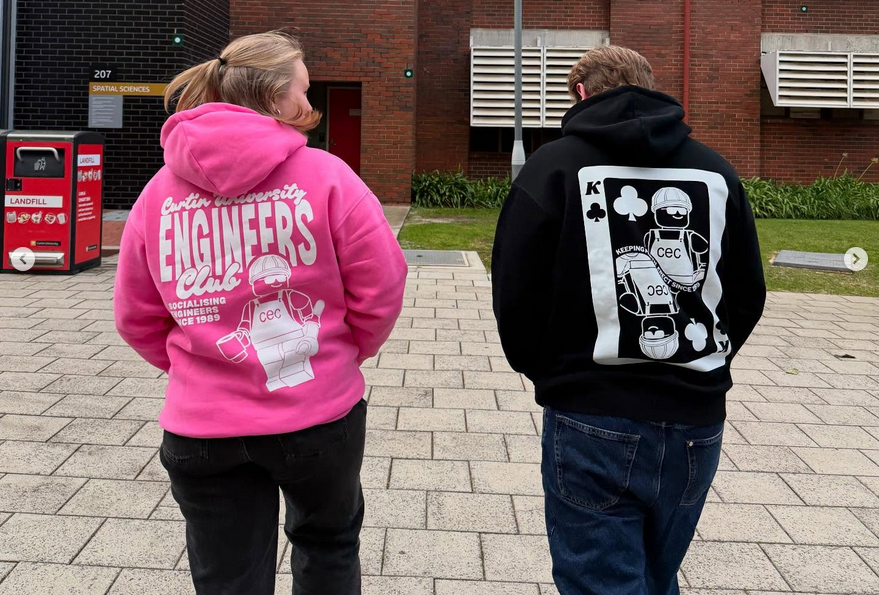
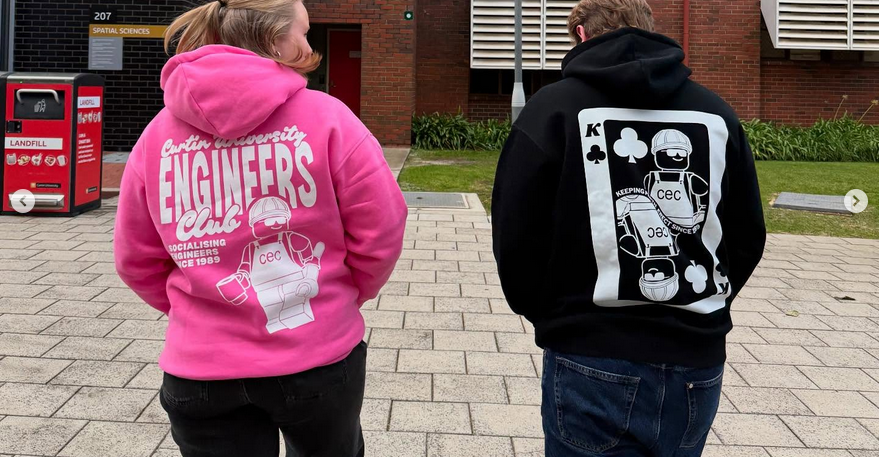
Started shrinking sizes to improve view. Additionally changed FAQ to JSON data and script rather than being hard coded

diff --git a/html/about.html b/html/about.html
@@ -34,8 +34,7 @@
         </div>
 
         <div style="width: 100%; height: 100%;  overflow: hidden; flex-direction: column; justify-content: flex-start; align-items: center; gap: 50px; display: inline-flex">
-            <div style="width: 1020.80px; border-radius: 12.80px; justify-content: flex-start; align-items: center; display: inline-flex"></div>
-            
+
             <!-- About Heros -->
             <p class="txHeaderBlack headingBorder" style="margin-bottom: 0px;">Who Are We?</p>
             <div class="heroContainer">
@@ -45,14 +44,14 @@
                 </div>
                 <div class="heroGroup">
                     <p class="txSubtitleBlack subtitleBorder">Where Can you Find Us?</p>
-                    <img alt="Map location of CEC Office" src="https://placehold.co/450x450" class="imageHero">
+                    <img alt="Map location of CEC Office" src="https://placehold.co/400x400" class="imageHero">
                 </div>
             </div>
 
             <div class="heroContainer">
                 <div class="heroGroup">
                     <p class="txSubtitleBlack subtitleBorder">Where Can you Find Us?</p>
-                    <img alt="Map location of CEC Office" src="https://placehold.co/450x450" class="imageHero">
+                    <img alt="Map location of CEC Office" src="https://placehold.co/400x400" class="imageHero">
                 </div>
                 <div class="heroGroup">
                     <p class="txSubtitleBlack subtitleBorder">What is CEC About?</p>
@@ -68,14 +67,14 @@
                     <a href="#sponsors" class="yellowButton" style="padding: 6px 8px;">Shop via out TidyHQ</a>
                 </div>
                 <div class="heroGroup" style="max-width: max-content;">
-                    <img alt="Sponsorship Photo" src="/assets/images/merchCardJumpers.png" class="imageHero" style="border-color: #2C4DAF; width: 320px;">
+                    <img alt="Sponsorship Photo" src="/assets/images/merchCardJumpers.png" class="imageHero" style="border-color: #2C4DAF; width: 300px;;">
                 </div>
             </div>
 
 
             <!-- FAQ -->
             <p class="txHeaderBlack headingBorder" style="margin-bottom: 0px;">Frequently Asked Club Questions</p>
-            <div class="faqContainer" style="width: 100%;">
+            <!-- <div class="faqContainer" style="width: 100%;">
                 <div class="faqGroup">
                     <p class="faqQuestion txParagraph3Black" style="text-align: right;">What is this Curtin Engineers Club About?</p>
                     <div class="faqSeparator"></div>
@@ -84,7 +83,7 @@
                 <div class="faqGroup">
                     <p class="faqQuestion txParagraph3Black" style="text-align: right;">Do I need to be an engineering student to join the club?</p>
                     <div class="faqSeparator"></div>
-                    <p class="faqAnswer txParagraph3Black" style="text-align: left;">Not at all! All Curtin students can become a member of the club no matter the discipline they are studying. </p>
+                    <p class="faqAnswer txParagraph3Black" style="text-align: left;">Not at all! All Curtin students can become a member of the club no matter the discipline they are studying.</p>
                 </div>
                 <div class="faqGroup">
                     <p class="faqQuestion txParagraph3Black" style="text-align: right;">Do I need to a Curtin student to join the club?</p>
@@ -121,7 +120,27 @@
                     <div class="faqSeparator"></div>
                     <p class="faqAnswer txParagraph3Black" style="text-align: left;">Events are advertised on our social media, links at the bottom of the page . Additionally posters of events are put up around campus and the Engineering Pavilion.</p>
                 </div>
-            </div> 
+            </div>  -->
+            <div class="faqContainer" id="faqContainer" style="width: 100%;"></div>
+        
+            <script>
+                fetch('/data/faqData.json')
+                .then(res => res.json())
+                .then(questions => {
+                    const container = document.getElementById('faqContainer');
+                    questions.forEach(question => {
+                        container.innerHTML += `
+                        <div class="faqGroup">
+                            <p class="faqQuestion txParagraph2Black" style="text-align: right;">${question.question}</p>
+                            <div class="faqSeparator"></div>
+                            <p class="faqAnswer txParagraph2Black" style="text-align: left;">${question.answer}</p>
+                        </div>
+                        `;
+                    })
+                })
+            </script>
+
+            
         </div>
 
         <!-- Footer -->

diff --git a/css/styles.css b/css/styles.css
@@ -207,23 +207,28 @@ a {
     max-width: 1000px;
     word-wrap: break-word;
     margin-bottom: 16px;
+    align-items: stretch;
 }
 
 .faqQuestion {
+    display: flex;
     width: 300px;
+    min-height: 1em;
 }
 
 .faqAnswer {
+    display: flex;
     width: 700px;
+    min-height: 1em;
 }
 
 .faqSeparator {
     width: 4px;
-    height: 60px;
+    height: 100%;
     background-color: #5271FF;
     margin: 0px 12px;
-    align-self: center;
     border-radius: 2px;
+    align-self: stretch;
 }
 
 
@@ -234,7 +239,7 @@ a {
     color: var(--Text-Primary, #050414);
     text-align: center;
     font-family: Poppins;
-    font-size: 28px;
+    font-size: 24px;
     font-style: normal;
     font-weight: 600;
     line-height: normal;
@@ -245,7 +250,7 @@ a {
     color: var(--Text-Primary, #EFEFEF);
     text-align: center;
     font-family: Poppins;
-    font-size: 28px;
+    font-size: 24px;
     font-style: normal;
     font-weight: 600;
     line-height: normal;
@@ -257,7 +262,7 @@ a {
     color: var(--Text-Primary, #050414);
     text-align: center;
     font-family: Poppins;
-    font-size: 20px;
+    font-size: 18px;
     font-style: normal;
     font-weight: 600;
     line-height: normal;
@@ -266,7 +271,7 @@ a {
 .txSubtitleWhite {
     color: var(--Text-Primary, #EFEFEF);
     font-family: Poppins;
-    font-size: 20px;
+    font-size: 18px;
     font-style: normal;
     font-weight: 600;
     line-height: normal;
@@ -278,7 +283,7 @@ a {
     color: var(--Text-Primary, #050414);
     text-align: center;
     font-family: Poppins;
-    font-size: 18px;
+    font-size: 16px;
     font-style: normal;
     font-weight: 400;
     line-height: normal;
@@ -288,7 +293,7 @@ a {
 .txParagraph1White {
     color: var(--Text-Primary, #EFEFEF);
     font-family: Poppins;
-    font-size: 18px;
+    font-size: 16px;
     font-style: normal;
     font-weight: 400;
     line-height: normal;
@@ -300,7 +305,7 @@ a {
     color: var(--Text-Primary, #050414);
     text-align: center;
     font-family: Poppins;
-    font-size: 16px;
+    font-size: 14px;
     font-style: normal;
     font-weight: 400;
     line-height: normal;
@@ -311,7 +316,7 @@ a {
 .txParagraph2White {
     color: var(--Text-Primary, #EFEFEF);
     font-family: Poppins;
-    font-size: 16px;
+    font-size: 14px;
     font-style: normal;
     font-weight: 400;
     line-height: normal;
@@ -323,7 +328,7 @@ a {
     color: var(--Text-Primary, #050414);
     text-align: center;
     font-family: Poppins;
-    font-size: 14px;
+    font-size: 12px;
     font-style: normal;
     font-weight: 400;
     line-height: normal;
@@ -334,7 +339,7 @@ a {
 .txParagraph3White {
     color: var(--Text-Primary, #EFEFEF);
     font-family: Poppins;
-    font-size: 14px;
+    font-size: 12px;
     font-style: normal;
     font-weight: 400;
     line-height: normal;
@@ -345,7 +350,7 @@ a {
 .txExecProf {
     color: var(--Text-Primary, #050414);
     font-family: Poppins;
-    font-size: 18px;
+    font-size: 16px;
     font-style: normal;
     font-weight: 400;
     line-height: normal;
@@ -380,7 +385,7 @@ a {
 .imageHero {
     border: 4px #5271FF solid;
     border-radius: 16px;
-    max-width: 450px;
+    max-width: 400px;
     height: auto;
 }
 
@@ -398,7 +403,7 @@ a {
 }
 
 .top-img {
-    width: 240px;
+    width: 200px;
     height: auto;
     transition: transform 0.1s linear;
 }
@@ -412,10 +417,9 @@ a {
 /* End Image Overlay Classes */
 
 .icon {
-    width: 48px;
-    height: 48px;
+    width: 32px;
+    height: 32px;
 }
-
 
 .execProfileOLD {
     display: flex;

diff --git a/html/index.html b/html/index.html
@@ -15,7 +15,7 @@
             <!-- Left side of Navigation Bar-->
             <div class="nav-left">
                 <a href="/html/index.html">
-                    <img class='icon' src="/assets/icons/CECGearBlack.svg" alt="CEC Logo">
+                    <img class='icon' src="/assets/icons/CECGearBlack.svg" alt="CEC Logo" style="width: 36;">
                 </a>
                 <a href="/html/index.html">Curtin Engineers Club</a>
                 <a href="/html/about.html">About</a>
@@ -84,7 +84,7 @@
                         <a href="#sponsors" class="yellowButton" style="padding: 6px 8px;">Find Out More</a>
                     </div>
                     <div class="heroGroup" style="max-width: max-content;">
-                        <img alt="Sponsorship Photo" src="/assets/images/sponsorActionCard.png" class="imageHero" style="border-color: #2C4DAF; width: 320px;">
+                        <img alt="Sponsorship Photo" src="/assets/images/sponsorActionCard.png" class="imageHero" style="border-color: #2C4DAF; width: 300px;">
                     </div>
                 </div>
                 <!-- Sponsor Logo Carosel-->

diff --git a/toDo.md b/toDo.md
@@ -1,10 +1,5 @@
 # To Do List
 * Fix Size of Dark mode icon
-* Quick Info - upload map image
-* Sponsor Hero - upload image
 * Sponsor Hero - Add Sponsor Logos
 * Exec Committee - Add headshots
-* NavBar - Update Button format on other pages
-* Merchandise Hero Bar - Fix Text decoration in button
 * FAQ - fix height of seperator bar, being the height of the answer
-* Fix Marketing Exec Photo placement
